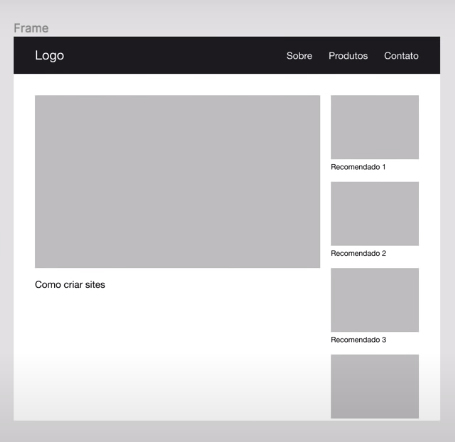
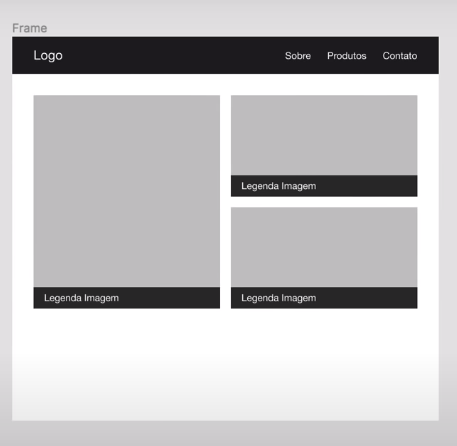
Section Grid 3

diff --git a/style.css b/style.css
@@ -51,49 +51,42 @@ img {
   display: block;
 }
 
-.grid2 {
+.grid3 {
   display: grid;
-  grid-template-columns: 1fr 250px;
-  grid-gap: 60px;
-  max-width: 1200px;
-  padding: 10px;
+  grid-template-columns: repeat(2, 1fr);
+  grid-gap: 20px;
   margin: 0 auto;
+  max-width: 800px;
+  padding: 10px;
 }
 
-.grid2 .sidebar > div{
-  margin-bottom: 10px;
+.grid3-item:nth-child(1) {
+  grid-row: 1 / 3;
 }
 
-.grid2 .sidebar > div img {
-  width: 100%;
+.grid3-item {
+  display: grid;
 }
 
-@media (max-width: 700px) {
-  .grid2 {
+.grid3-item img{
+  grid-column: 1;
+  grid-row: 1 / 3;
+  align-self: end;
+}
+
+.grid3-item p {
+  background: rgba(0, 0, 0, .6);
+  color: white;
+  padding: 10px;
+  grid-column: 1;
+  grid-row: 2;
+  align-self: end;
+}
+
+@media (max-width: 515px){
+  .grid3 {
+    display: grid;
     grid-template-columns: 1fr;
+    margin: 0 auto;
   }
-
-  .grid2 .video{
-    margin-bottom: 50px;
-  }
-
-  .grid2 .sidebar {
-    display: flex;
-    overflow: scroll;
-  }
-
-  .grid2 .sidebar > div {
-    flex: 1 0 200px;
-    margin: 0 10px;
-  }
-
-  /* .grid1 > div:nth-child(n + 4) {
-    display: block;
-  }
-
-  .grid1 > div.propaganda {
-    grid-column: auto;
-    grid-row: auto;
-  } */
 }
-

diff --git a/index.html b/index.html
@@ -20,31 +20,21 @@
     </nav>
   </header>
 
-  <h1>Section Grid 2</h1>
+  <h1>Section Grid 3</h1>
   
-  <section class="grid2">
-    <div class="video">
-      <img src="./image1.png">
-      <h2>Como criar sites</h2>
-    </div>
+  <section class="grid3">
     
-    <div class="sidebar">
-      <div>
-        <img src="./image3.jpeg">
-        <p>VIDEO 1</p>
-      </div>
-      <div>
-        <img src="./image1.png">
-        <p>VIDEO 2</p>
-      </div>
-      <div>
-        <img src="./image3.jpeg">
-        <p>VIDEO 3</p>
-      </div>
-      <div>
-        <img src="./image1.png">
-        <p>VIDEO 4</p>
-      </div>
+    <div class="grid3-item">
+      <img src="./image1.jpg">
+      <p>Legenda Imagem</p>
+    </div>
+    <div class="grid3-item">
+      <img src="./image3.jpg">
+      <p>Legenda Imagem</p>
+    </div>
+    <div class="grid3-item">
+      <img src="./image2.jpg">
+      <p>Legenda Imagem</p>
     </div>
   
   </section>

diff --git a/README.md b/README.md
@@ -1,4 +1,4 @@
-# Grid 2
+# Grid 3
 > Layouts using Grid layout 
 
 <div>
